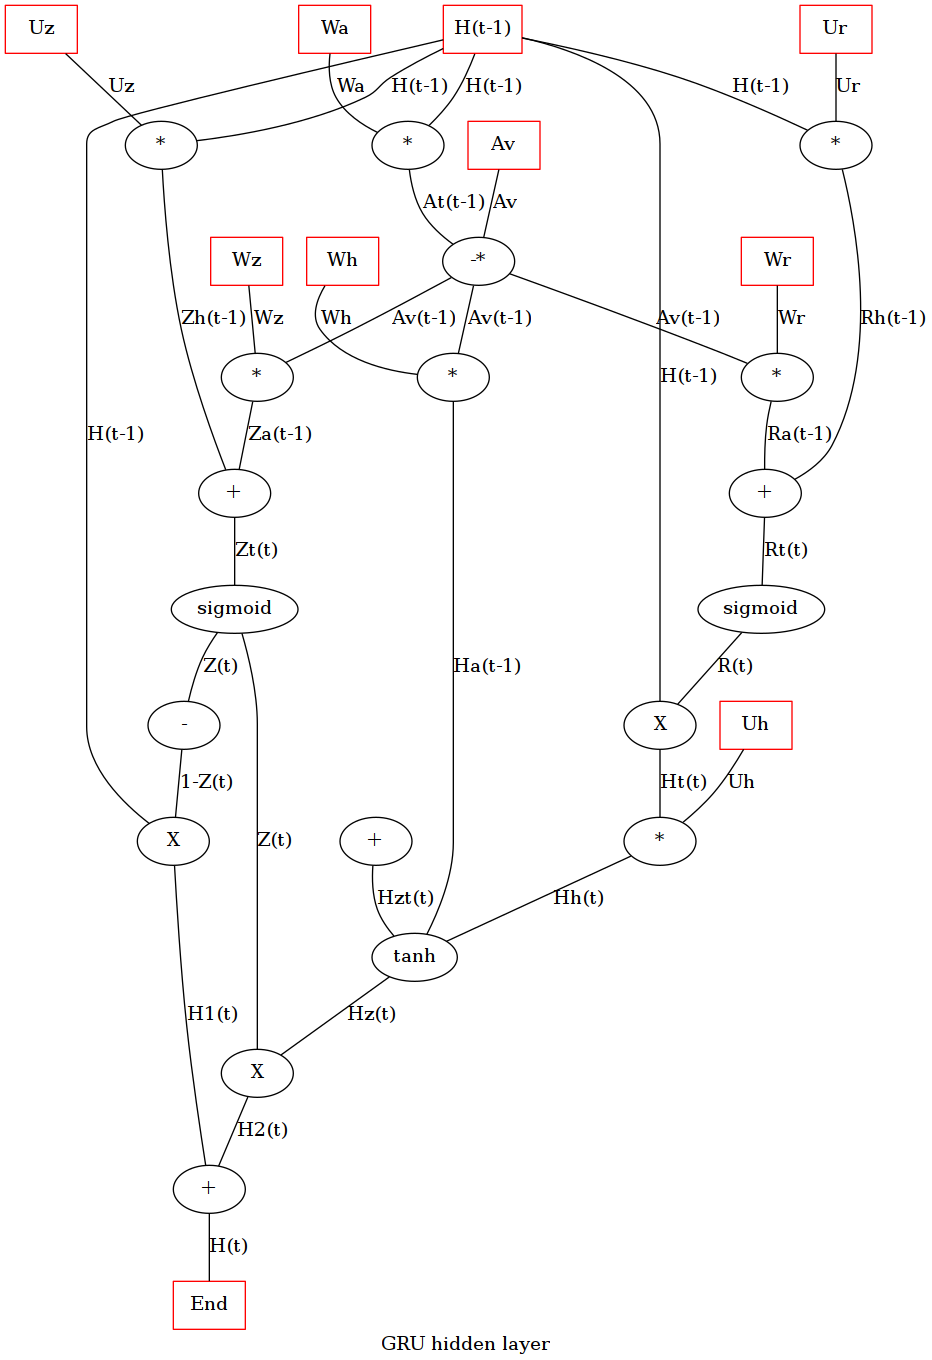
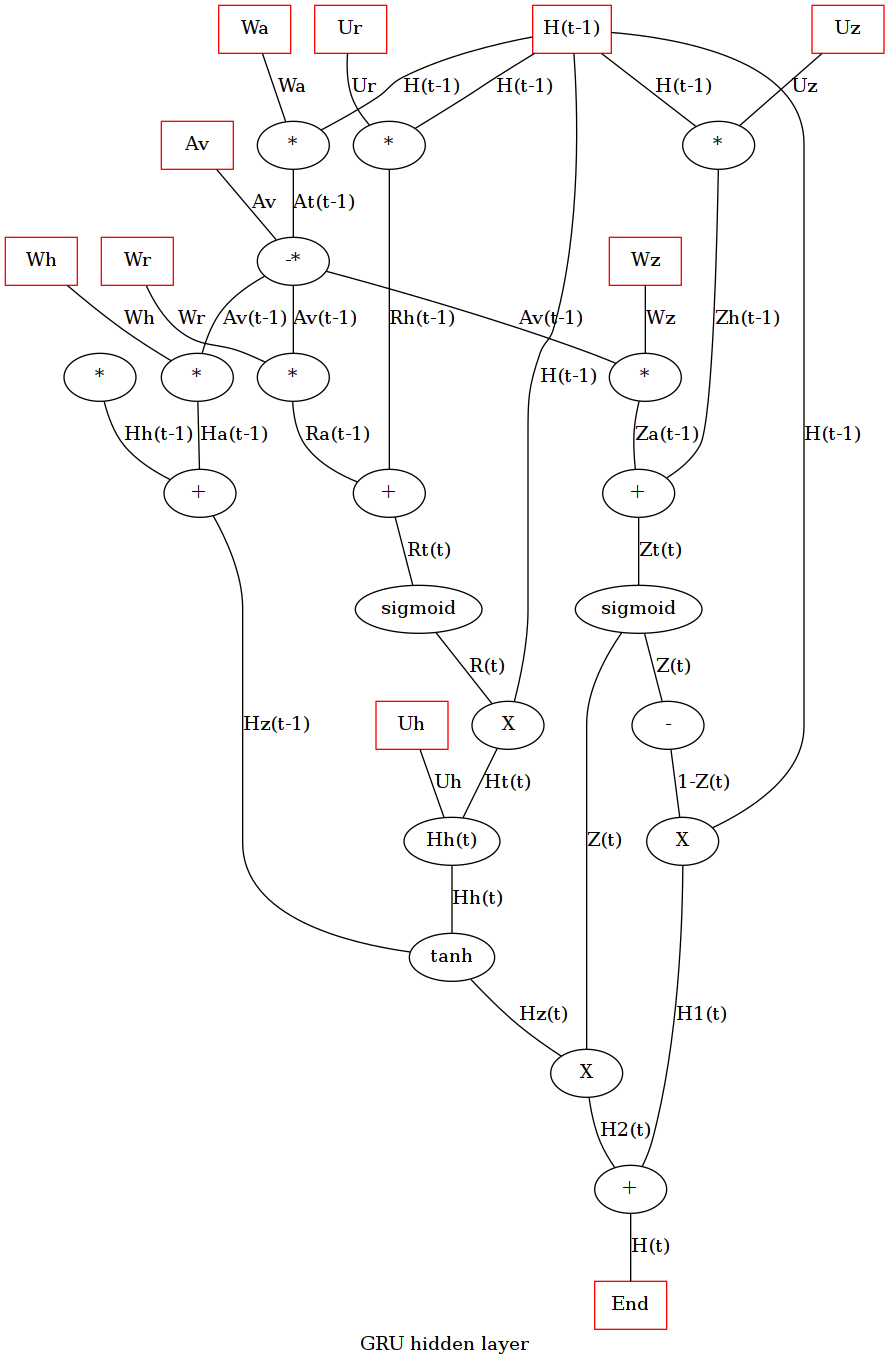
change gru_pic.py

diff --git a/graph/gru_pic.py b/graph/gru_pic.py
@@ -10,7 +10,7 @@ temp_node_list = [("At(t-1)", "*"), ("Av(t-1)", "-*"),  # -*表示左乘
                   ("Zh(t-1)", "*"),("Rh(t-1)", "*"),
                   ("Zt(t)", "+"), ("Z(t)", "sigmoid"),("1-Z(t)", "-"),
                   ("Rt(t)", "+"), ("R(t)", "sigmoid"),
-                  ("Ht(t)", "X"), ("Hh(t)", "*"), ("Hzt(t)", "+"), ("Hz(t)", "tanh"),
+                  ("Ht(t)", "X"), ("Hh(t-1)", "*"), ("Hz(t-1)", "+"), ("Hz(t)", "tanh"),
                   ("H1(t)", "X"), ("H2(t)", "X"), ("H(t)", "+")]
 
 edges_list = [("Wa", "At(t-1)"), ("H(t-1)", "At(t-1)"),
@@ -25,7 +25,7 @@ edges_list = [("Wa", "At(t-1)"), ("H(t-1)", "At(t-1)"),
               ("Zt(t)", "Z(t)"), ("Z(t)", "1-Z(t)"), ("Rt(t)", "R(t)"),
               ("H(t-1)", "Ht(t)"), ("R(t)", "Ht(t)"),
               ("Uh", "Hh(t)"), ("Ht(t)", "Hh(t)"), ("Hh(t)", "Hz(t)"),
-              ("Hzt(t)", "Hz(t)"), ("Ha(t-1)", "Hz(t)"),
+              ("Hz(t-1)", "Hz(t)"), ("Ha(t-1)", "Hz(t-1)"), ("Hh(t-1)", "Hz(t-1)"),
               ("Hz(t)", "H2(t)"), ("Z(t)", "H2(t)"),
               ("H(t-1)", "H1(t)"), ("1-Z(t)", "H1(t)"),
               ("H1(t)", "H(t)"), ("H2(t)", "H(t)"),
